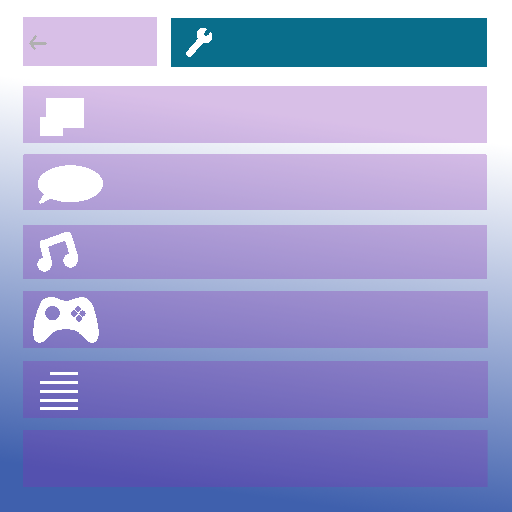
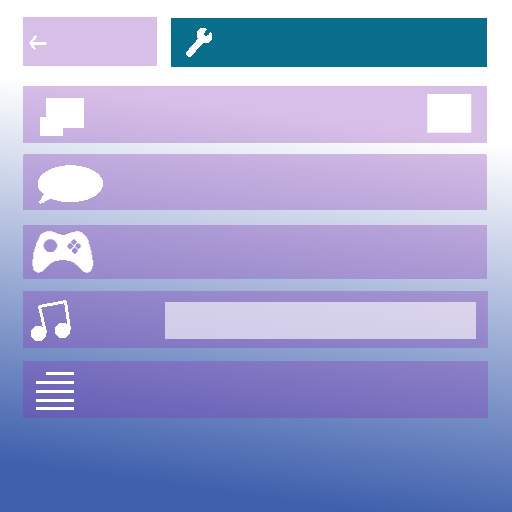
Update Options menu screen

diff --git a/src/opmon/controller/OptionsMenuCtrl.cpp b/src/opmon/controller/OptionsMenuCtrl.cpp
@@ -48,6 +48,9 @@ namespace OpMon {
                             nope.play();
                             break;
                         case 4:
+                            nope.play();
+                            break;
+                        case 5:
                             push.play();
                             menu.setCurrentOption(View::OptionType::CREDITS);
                             return GameStatus::CONTINUE;

diff --git a/src/opmon/view/OptionsMenu.cpp b/src/opmon/view/OptionsMenu.cpp
@@ -119,8 +119,8 @@ UNS
             txtOpt1.setPosition(120, 100);
             txtOpt2.setPosition(120, 170);
             txtOpt3.setPosition(120, 240);
-            txtOpt4.setPosition(120, 310);
-            txtOpt5.setPosition(120, 380);
+            txtOpt5.setPosition(120, 310);
+            txtOpt4.setPosition(120, 380);
 
             langEsp.setPosition(45, 170);
             langEng.setPosition(45, 100);
